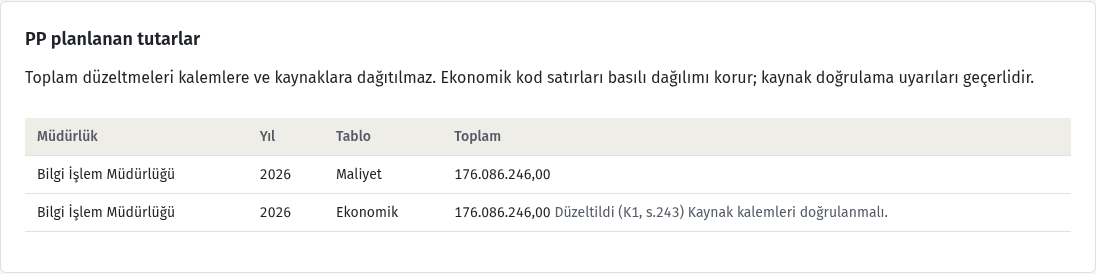
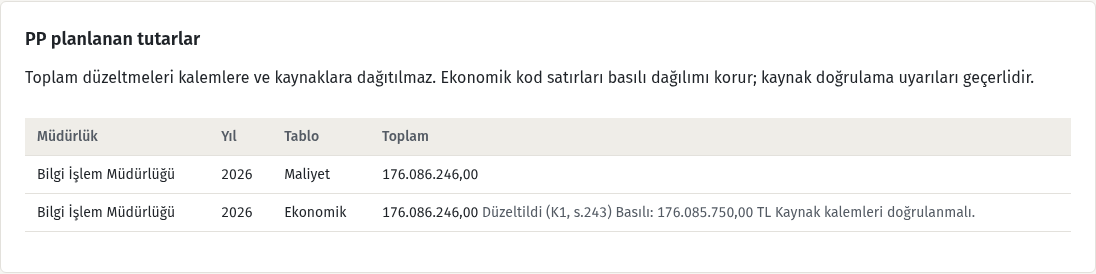
CIV-190: lead incelemesindeki dört bulguyu düzelt

Changed region(s): [[0.1861, 0.7299, 0.8996, 0.8175], [0.1861, 0.6131, 0.4964, 0.6715], [0.1861, 0.4672, 0.4653, 0.5255]]

diff --git a/app/templates/activity_financial.html b/app/templates/activity_financial.html
@@ -12,7 +12,7 @@
 <section class="panel ar-panel" aria-label="PP planlanan tutarlar"><h3>PP planlanan tutarlar</h3>
 <p>Toplam düzeltmeleri kalemlere ve kaynaklara dağıtılmaz. Ekonomik kod satırları basılı dağılımı korur; kaynak doğrulama uyarıları geçerlidir.</p>
 <div class="ar-scroll"><table class="ar-table"><thead><tr><th>Müdürlük</th><th>Yıl</th><th>Tablo</th><th>Toplam</th></tr></thead><tbody>
-{% for figure in financial.pp_planned_figures %}<tr><td>{{ figure.department }}</td><td>{{ figure.year }}</td><td>{{ 'Maliyet' if figure.table == 'cost' else 'Ekonomik' }}</td><td>{{ figure.amount|trmoney }} {% for entry in figure.errata %}<small title="Basılı: {{ entry.printed_value|trmoney }} TL{% if entry.get('stored_total') %}; saklanan kalemler toplamı: {{ entry.stored_total|trmoney }} TL{% endif %}">{{ entry.marker }}</small>{% endfor %}{% if figure.needs_review %}<small> Kaynak kalemleri doğrulanmalı.</small>{% endif %}{% if figure.get('errata_warning') %}<small>{{ figure.errata_warning }}</small>{% endif %}</td></tr>{% endfor %}
+{% for figure in financial.pp_planned_figures %}<tr><td>{{ figure.department }}</td><td>{{ figure.year }}</td><td>{{ 'Maliyet' if figure.table == 'cost' else 'Ekonomik' }}</td><td>{{ figure.amount|trmoney }} {% for entry in figure.errata %}<small title="Basılı: {{ entry.printed_value|trmoney }} TL{% if entry.get('stored_total') %}; saklanan kalemler toplamı: {{ entry.stored_total|trmoney }} TL{% endif %}">{{ entry.marker }}</small><small> Basılı: {{ entry.printed_value|trmoney }} TL{% if entry.get('stored_total') is not none %}; Saklanan kalemler toplamı: {{ entry.stored_total|trmoney }} TL{% endif %}</small>{% endfor %}{% if figure.needs_review %}<small> Kaynak kalemleri doğrulanmalı.</small>{% endif %}{% if figure.get('errata_warning') %}<small>{{ figure.errata_warning }}</small>{% endif %}</td></tr>{% endfor %}
 </tbody></table></div></section>
 {% endif %}
 <section class="panel ar-panel"><h2>Bütçe Uygulama Sonuçları</h2><p>Boş tutar bilinmiyor demektir; sıfır için 0 girin. İdare toplamları müdürlük satırlarından hesaplanır. Ekonomik kod ve program tabloları aynı giderleri ayrı sınıflandırır.</p>

diff --git a/tests/test_pp_errata.py b/tests/test_pp_errata.py
@@ -136,7 +136,7 @@ def test_fr_unit_idare_export_and_retained_snapshot(walk):
         text = '\n'.join(c.text for t in Document(BytesIO(word)).tables for r in t.rows for c in r.cells)
         assert '176.086.246,00' in text and 'Düzeltildi (K1, s.243)' in text
         pdf = build_activity_report_pdf(data)
-        text = '\n'.join(p.extract_text() for p in PdfReader(BytesIO(pdf)).pages)
+        text = ' '.join('\n'.join(p.extract_text() for p in PdfReader(BytesIO(pdf)).pages).split())
         assert '176.086.246,00' in text and 'Düzeltildi (K1, s.243)' in text
     # A retained FR is immutable: its approved facts/bytes are never re-projected.
     idare = next(d for d in docs if d.department_id is None)
@@ -169,11 +169,12 @@ def test_pp_exports_keep_printed_lines(walk):
         assert 'Düzeltildi' not in text
 
 
-def test_strategy_readonly_list_and_fr_marker_in_browser(walk, browser):
+@pytest.mark.parametrize('width', [1440, 390])
+def test_strategy_readonly_list_and_fr_marker_in_browser(walk, browser, width):
     db, client, strategy, _, _, _ = walk
     docs = create_fr(walk)
     doc = next(d for d in docs if d.department_id and 'Bilgi İşlem' in db.get(Department, d.department_id).name)
-    with browser.new_context(viewport={'width':1440, 'height':1000}) as context:
+    with browser.new_context(viewport={'width':width, 'height':1000}) as context:
         def serve(route):
             request = route.request
             response = client.request(request.method, request.url, content=request.post_data_buffer,
@@ -189,10 +190,115 @@ def test_strategy_readonly_list_and_fr_marker_in_browser(walk, browser):
         assert '1.290.738.000,00' in block.inner_text()
         assert 'Dr. Ali KAYA' in block.inner_text()
         assert block.locator('input,button,form,select,textarea').count() == 0
-        if os.getenv('CIV190_SCREENSHOTS'):
+        if os.getenv('CIV190_SCREENSHOTS') and width == 1440:
             block.screenshot(path='docs/reports/civ-190/strateji.png')
         page.goto(f'http://testserver/activity-sections/reports/{doc.id}?code=III.A.1')
         marker = page.get_by_text('Düzeltildi (K1, s.243)', exact=True)
         assert marker.count() == 1 and '176.085.750' in marker.get_attribute('title')
-        if os.getenv('CIV190_SCREENSHOTS'):
+        assert 'Basılı: 176.085.750,00 TL' in marker.locator('..').inner_text()
+        if os.getenv('CIV190_SCREENSHOTS') and width == 1440:
             page.get_by_role('region', name='PP planlanan tutarlar').screenshot(path='docs/reports/civ-190/fr-marker.png')
+        idare = next(d for d in docs if d.department_id is None)
+        page.goto(f'http://testserver/activity-sections/reports/{idare.id}?code=III.A.1')
+        k6 = page.get_by_text('Düzeltildi (K6, s.223)', exact=True)
+        k6.scroll_into_view_if_needed()
+        cell = k6.locator('..')
+        assert 'Basılı: 1.290.738.000,00 TL' in cell.inner_text()
+        assert 'Saklanan kalemler toplamı: 1.290.738.800,00 TL' in cell.inner_text()
+        assert cell.get_by_text('Basılı:', exact=False).is_visible()
+
+
+def minimal_fr(planned, department_id=None):
+    """A new 2026 report with just the official financial section."""
+    return dict(id=1, year=2026, organization_id=1, organization='Deneme Belediyesi',
+        department_id=department_id, department='Deneme Müdürlüğü' if department_id else 'İdare',
+        frozen=True, sha256='0' * 64, sections=[dict(code='III.A.1', title='Bütçe Uygulama Sonuçları',
+            position=1, depth=2, status='ready', blocks=[])], core={},
+        financial={'pp_planned_figures': planned},
+        _typeset=dict(schema_version='ar-source/1', complete=True,
+            generated_at='2026-11-09T00:00:00+00:00', sections={'III.A.1': []},
+            resources={}, entries={}, figures={}, indicators=[], activities=[]))
+
+
+def document_text(output, fmt):
+    if fmt == 'pdf':
+        return '\n'.join(page.extract_text() for page in PdfReader(BytesIO(output)).pages)
+    doc = Document(BytesIO(output))
+    return '\n'.join([p.text for p in doc.paragraphs] +
+                     [cell.text for table in doc.tables for row in table.rows for cell in row.cells])
+
+
+@pytest.mark.parametrize('department_id', [None, 3], ids=['idare', 'birim'])
+@pytest.mark.parametrize('fmt', ['docx', 'pdf'])
+def test_official_exports_omit_internal_notes_and_keep_correction_marker(department_id, fmt):
+    entry = dict(pp_errata.errata_entries(2026)[0], marker='Düzeltildi (K1, s.243)')
+    warning = 'BELİRSİZ: K1 / Bilgi İşlem: Strateji kaynak satırları kontrol etmelidir.'
+    planned = [dict(department_id=3, department='Bilgi İşlem Müdürlüğü', year=2026,
+        table='economic', amount=Decimal('176086246'), stored_amount=Decimal('176085750'),
+        errata=[entry], needs_review=True, errata_warning=warning)]
+    payload = minimal_fr(planned, department_id)
+    before = deepcopy(payload)
+    output = (build_activity_report_docx(payload, TEMPLATE_PATH) if fmt == 'docx'
+              else build_activity_report_pdf(payload))
+    text = ' '.join(document_text(output, fmt).split())
+    assert 'Kaynak kalemleri doğrulanmalı.' not in text
+    assert 'BELİRSİZ' not in text and warning not in text
+    assert 'Düzeltildi (K1, s.243)' in text and '176.086.246,00' in text
+    if fmt == 'docx':
+        table = Document(BytesIO(output)).tables[0]
+        assert [cell.text for cell in table.rows[0].cells] == ['Müdürlük', 'Yıl', 'Tablo', 'Toplam']
+    assert payload == before  # Screen warnings remain in the captured data.
+
+
+def test_2026_typeset_contract_classifies_errata_numbers_and_years():
+    from app.ar_typeset_contract import build_contract
+    k1, k6 = pp_errata.errata_entries(2026)
+    corrected = dict(department_id=3, department='Bilgi İşlem Müdürlüğü', year=2026,
+        table='economic', amount=Decimal('176086246.00'), stored_amount=Decimal('176085750.00'),
+        sources={'inside': Decimal('176085750.00'), 'outside': Decimal('0.00')},
+        errata=[dict(k1, marker='Düzeltildi (K1, s.243)')], needs_review=True)
+    forecast = dict(corrected, year=2027, errata=[dict(k6, marker='Düzeltildi (K6, s.223)')])
+    unknown = dict(corrected, amount=None, stored_amount=None,
+        sources={'inside': None, 'outside': None}, errata=[])
+    payload = minimal_fr([corrected, forecast, unknown])
+    before = deepcopy(payload)
+    figures = build_contract(payload)['financial_context']['pp_planned_figures']
+    assert figures[0]['stored_amount'] == {'exact': '176085750.00', 'display': '176.085.750,00'}
+    assert figures[0]['sources']['outside'] == {'exact': '0.00', 'display': '0,00'}
+    for entry, expected_year in [(figures[0]['errata'][0], 2026), (figures[1]['errata'][0], 2027)]:
+        assert entry['value_year'] == expected_year and entry['year'] == 2026
+        for field in ('printed_value', 'corrected_value', 'stored_total'):
+            if field in entry:
+                original = k1 if expected_year == 2026 else k6
+                from app.numbers import format_number
+                assert entry[field] == {'exact': original[field], 'display': format_number(original[field], money=True)}
+    empty = {'exact': None, 'display': '—'}
+    assert figures[2]['amount'] == empty and figures[2]['stored_amount'] == empty
+    assert figures[2]['sources'] == {'inside': empty, 'outside': empty}
+    assert payload == before
+
+
+@pytest.mark.parametrize('status, expected', [('zero', Decimal(0)), ('required', None)])
+def test_declared_zero_scope_is_distinct_from_absent_required_rows(status, expected):
+    department = dict(department_id=1, department='Boş Müdürlük', scope={'status': status},
+                      activities=[], department_costs=[], economics=[])
+    payload = {'period': 2026, 'departments': [department]}
+    result = pp_errata.apply_pp_errata(payload)
+    assert len(result['planned_figures']) == 6
+    assert all(row['amount'] == expected and row['stored_amount'] == expected for row in result['planned_figures'])
+    assert all(row['sources'] == {'inside': expected, 'outside': expected}
+               for row in result['planned_figures'] if row['table'] == 'economic')
+    assert payload['departments'] == [department]
+
+
+@pytest.mark.parametrize('status', ['zero', 'required'])
+def test_explicit_blank_cells_remain_unknown_in_zero_and_required_scopes(status):
+    blank = dict(year=2026, value_kind='budget', amount=None, state='missing')
+    department = dict(department_id=1, department='Boş Müdürlük', scope={'status': status},
+        activities=[], department_costs=[dict(blank, category='personnel_sgk')],
+        economics=[dict(blank, category='personnel', funding_type='inside')])
+    result = pp_errata.apply_pp_errata({'period': 2026, 'departments': [department]})
+    assert figure(result, 'Boş', 'cost')['amount'] is None
+    economic = figure(result, 'Boş')
+    assert economic['amount'] is None and economic['sources']['inside'] is None
+    assert economic['needs_review']

diff --git a/app/data/pp_errata.py b/app/data/pp_errata.py
@@ -37,6 +37,7 @@ def apply_pp_errata(payload):
     for department in result.get('departments', []):
         if (department.get('scope') or {}).get('status') == 'excluded':
             continue
+        explicit_zero = (department.get('scope') or {}).get('status') == 'zero'
         # Prefer the publication's period name; it is part of the printed book.
         name = (department.get('scope') or {}).get('display_name') or department['department']
         for value_year in range(year, year + 3):
@@ -51,14 +52,23 @@ def apply_pp_errata(payload):
             # Both components are necessary for a complete cost table total.
             cost_amount = (_sum(costs + personnel)
                            if activities and len(costs) == len(activities) and len(personnel) == 1 else None)
+            # A declared zero scope supplies absent rows, never explicit blanks
+            # or incomplete activities. Preserve contradictory nonzero data too.
+            if explicit_zero and not activities and all(
+                    row.get('amount') is not None and Decimal(str(row['amount'])) == 0 for row in personnel):
+                cost_amount = Decimal(0)
+            economic_amount = Decimal(0) if explicit_zero and not economics else _sum(economics)
             for table, rows, amount in [('cost', costs + personnel, cost_amount),
-                                        ('economic', economics, _sum(economics))]:
+                                        ('economic', economics, economic_amount)]:
                 figure = dict(department_id=department['department_id'], department=name,
                     year=value_year, table=table, amount=amount, stored_amount=amount,
                     errata=[], needs_review=any(row.get('state', 'verified') != 'verified' for row in rows))
                 if table == 'economic':
-                    figure['sources'] = {fund: _sum([row for row in economics if row.get('funding_type') == fund])
-                                         for fund in ('inside', 'outside')}
+                    figure['sources'] = {}
+                    for fund in ('inside', 'outside'):
+                        source_rows = [row for row in economics if row.get('funding_type') == fund]
+                        figure['sources'][fund] = (Decimal(0) if explicit_zero and not source_rows
+                                                   else _sum(source_rows))
                 for entry in entries:
                     if (entry['department'], entry['value_year'], entry['table'], entry['field']) != (name, value_year, table, 'total'):
                         continue

diff --git a/app/ar_export.py b/app/ar_export.py
@@ -72,14 +72,11 @@ class _ReportContent:
         if code == 'III.A.1':
             planned = data.get('pp_planned_figures', [])
             if planned:
-                self.table(['Müdürlük', 'Yıl', 'Tablo', 'Toplam', 'Açıklama'], [
+                self.table(['Müdürlük', 'Yıl', 'Tablo', 'Toplam'], [
                     [row['department'], row['year'], 'Maliyet' if row['table'] == 'cost' else 'Ekonomik',
-                     format_number(row['amount'], money=True),
-                     '; '.join([*(entry['marker'] for entry in row['errata']),
-                                *(['Kaynak kalemleri doğrulanmalı.'] if row['needs_review'] else []),
-                                *([row['errata_warning']] if row.get('errata_warning') else [])])]
+                     '\n'.join([format_number(row['amount'], money=True),
+                                 *(entry['marker'] for entry in row['errata'])])]
                     for row in planned], 'PP planlanan tutarlar')
-                self.paragraph('Toplam düzeltmeleri kalemlere ve kaynaklara dağıtılmaz; ekonomik kod satırları basılı dağılımı korur.', NOTE)
             for kind, table in data.get('tables', {}).items():
                 title = {'expenditure': 'Ekonomik Koda Göre Giderler',
                          'programme': 'Program ve Alt Programa Göre Giderler',

diff --git a/app/ar_typeset_contract.py b/app/ar_typeset_contract.py
@@ -18,8 +18,9 @@ SECTION_FIELDS = ('code', 'title', 'position', 'parent_id', 'depth', 'owner', 'c
 NUMBER_FIELDS = {'value', 'actual', 'amount', 'previous', 'initial', 'added', 'deducted', 'entered_final',
     'cancelled', 'carried', 'estimate', 'refunds', 'final', 'net', 'rate', 'pp_budget', 'lower_rate',
     'upper_rate', 'count', 'area', 'total', 'verified', 'missing', 'number', 'percentage',
-    'delta', 'achievement_percent'}
-REFERENCE_FIELDS = {'id', 'department_id', 'organization_id', 'period_id', 'year', 'document_id',
+    'delta', 'achievement_percent', 'stored_amount', 'inside', 'outside',
+    'printed_value', 'corrected_value', 'stored_total'}
+REFERENCE_FIELDS = {'id', 'department_id', 'organization_id', 'period_id', 'year', 'value_year', 'document_id',
     'publication_id', 'pp_publication_id', 'import_id', 'program_id', 'subprogram_id', 'card_id',
     'parent_id', 'definition_version', 'revision_id', 'approval_id', 'copied_from_id',
     'copied_from_approval_id', 'edited_by', 'source_revision', 'revision', 'position', 'depth'}

diff --git a/docs/reports/civ-190/report.md b/docs/reports/civ-190/report.md
@@ -6,7 +6,7 @@ Kaynak beyan: “Civensa – 2026 Faaliyet Raporu soruları”, 9.11.2026 08:46,
 
 ## İnceleme yöntemi ve sınır
 
-Depodaki `tests/fixtures/first_load/source/2026-performans-programi_ONAYLI.idml`, mevcut ilk yükleme yolu ile yalnız geçici, yerel PostgreSQL 18'e yüklendi. Mevcut operasyon şeması kontrolü nedeniyle testin mevcut `disposable_first_load_database` yardımcısı kullanıldı. Aşağıdaki kimlikler bu yerel provaya aittir; canlı kayıt kimliği değildir. Canlı veritabanına bağlanılmadı. Yeni migrasyon, bağımlılık, merge veya deploy yoktur.
+Depodaki `tests/fixtures/first_load/source/2026-performans-programi_ONAYLI.idml`, mevcut ilk yükleme yolu ile yalnız geçici, yerel PostgreSQL 18'e yüklendi. Mevcut operasyon şeması kontrolü nedeniyle testin mevcut `disposable_first_load_database` yardımcısı kullanıldı. Aşağıdaki kimlikler bu yerel provaya aittir; canlı kayıt kimliği değildir. Canlı veritabanına bağlanılmadı. Yeni migrasyon veya bağımlılık yoktur; deploy yapılmadı. İlk teslimde merge yapılmadı; dal güncellemesi için sonradan verilen açık kullanıcı talebi aşağıdaki takip bölümünde açıklanır.
 
[1 lines of base64/hex data omitted]
 
@@ -49,7 +49,7 @@ Tek uygulama işlevi: `app/data/pp_errata.py::apply_pp_errata`. Tek sürümlü v
 
 Strateji için mevcut `/report-builder?period_id=2026_dönem_kimliği` ekranına “Basılı kitap düzeltmeleri (2026)” salt okunur bloğu eklendi. Menü veya düzenleme uç noktası eklenmedi. Tutarlar Türkçe biçimde gösterilir.
 
-## Doğrulama
+## Doğrulama (ilk teslim)
 
 - `python -m pytest -q --require-postgres tests/test_pp_errata.py`: **5 geçti** (son koşu 102,55 sn). Gerçek 2026 ilk yüklemesi; aynı kitap durumu ve hash; K1–K6 kararları; eksik/uyuşmayan kayıtlar; dosyada bulunmayan madde; birim/İdare; Word/PDF; korunan FR onay kopyası; gerçek tarayıcı listesi ve işaret.
 - `python -m pytest -q --require-postgres tests/test_activity_financial.py tests/test_activity_financial_ui.py tests/test_activity_sections_export.py`: **29 geçti** (46,65 sn).
@@ -63,3 +63,21 @@ Koşular yalnız `CIVENSA_TEST_POSTGRES_URL` ile yerel PostgreSQL 18 üzerinde y
 CI kabulü PR baş commit'i üzerinde izlenir; tam test grubunun sonucu PR denetimlerinde bulunur. Canlı verinin yerel provayla birebir eşliği kontrol edilmedi; görev gereği canlı bağlantı kurulmadı. Eşleşmeyen çalışma zamanı toplamları düzeltilmez ve BELİRSİZ gösterilir.
 
 Ekran görüntüleri: `strateji.png`, `fr-marker.png` (yerel test hesabı ve geçici veritabanı; gerçek uygulama şablonları ve oturum açma yolu). İki PNG kullanıcı tarafından herkese açık PR’a eklenmek üzere açıkça onaylandı.
+
+## Lead takip düzeltmeleri
+
+PR #433’ün lead takip yorumu ve dört inceleme bulgusu uygulandı:
+
+- Resmî birim/İdare Word ve PDF’de PP planlanan tutarlar tablosu yalnız Müdürlük / Yıl / Tablo / Toplam sütunlarını içerir. Düzeltme işareti toplam hücresinde kalır. `needs_review` ve `errata_warning` metinleri resmî çıktıya yazılmaz; uygulama ekranında ve kaynak veride korunur.
+- Dizgi sözleşmesinde `stored_amount`, `sources.inside/outside`, `printed_value`, `corrected_value`, `stored_total` sayısal alan olarak; `value_year` yıl/referans alanı olarak sınıflandırıldı. Boş sayılar `{exact: null, display: "—"}` biçimini korur; yıl `2.026` biçimine çevrilmez. Kaydedilmiş tarihsel raporlar yeniden yazılmaz.
+- `scope.status == 'zero'` kararı varsa bulunmayan maliyet/ekonomik satırlar ve kaynaklar açık sıfır olarak okunur. `required` kapsamındaki eksiklik ve mevcut satırdaki boş hücre bilinmeyen kalır; sıfır kapsamındaki boş hücre de sıfıra çevrilmez.
+- Basılı tutar ve K6’nın saklanan kalem toplamı işaretin yanında görünür metin olarak gösterilir. 1440 ve 390 piksel tarayıcı kontrolleri bunları hover olmadan doğrular. FR ekran görüntüsü güncellendi.
+
+Takip doğrulaması (geçici yerel PostgreSQL 18 ve Chromium):
+
+- Hatalar önce regresyonlarla yeniden üretildi: resmî çıktıdaki iki not, dizgi yılı ve açık sıfır toplamı kontrolleri başarısızdı.
+- `python -m pytest -q --require-postgres tests/test_pp_errata.py`: **15 geçti**, 117,94 sn. Dört Word/PDF × birim/İdare not süzme kontrolü; 2026 düzeltme/bilinmeyen sayı dizgisi; sıfır/required/boş hücre ayrımı; masaüstü/mobil görünür tutarlar; mevcut gerçek kitap ve köken hash’i kontrolleri.
+- `python -m pytest -q --require-postgres tests/test_ar_typeset_contract.py tests/test_activity_sections_export.py tests/test_activity_financial_ui.py`: **37 geçti**, 69,36 sn.
+- `git diff --check`: temiz; `alembic heads`: yine tek baş `c185a1b2c3d4`.
+
+Kullanıcının bu takipteki açık merge talebi yalnız `feature/authorization-workflow-phase5` → `task/civ-190-pp-errata` yönündedir. PR’ın hedef dala merge edilmesi veya deploy yapılması bu talebin kapsamında değildir. Onaylı kitap satırları ve düzeltme JSON’u değiştirilmedi.
